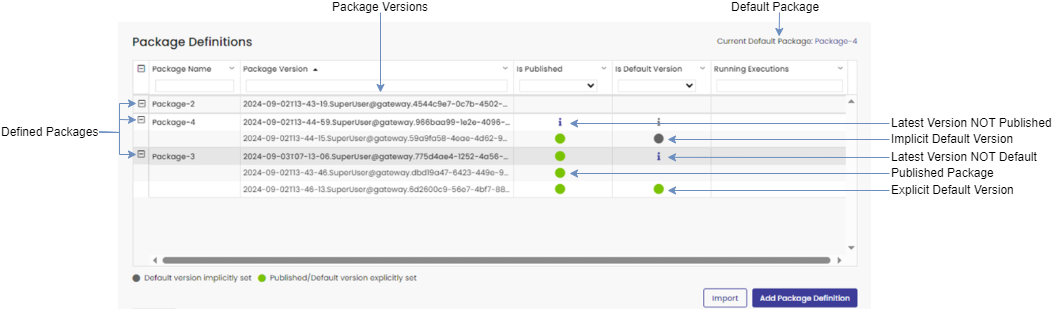
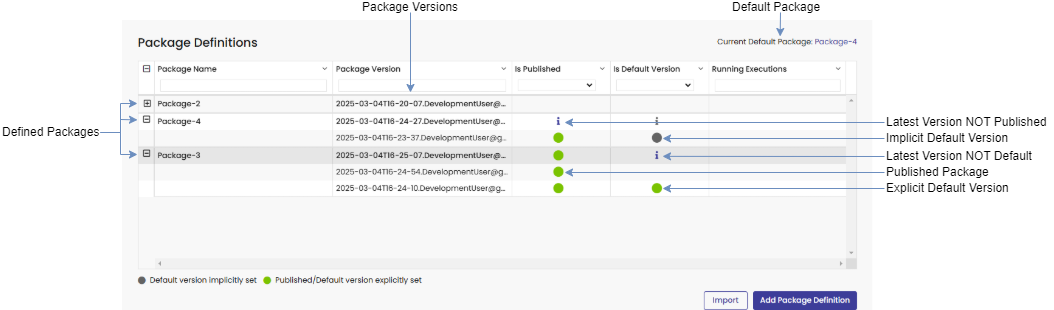
Modified screen shots for consistency

diff --git a/content/en/docs/2025.1/Guides/user-guides/user-interfaces/gateway/Admin/packages/package-version-editor.md b/content/en/docs/2025.1/Guides/user-guides/user-interfaces/gateway/Admin/packages/package-version-editor.md
@@ -17,25 +17,23 @@ The Package Version Editor displays details of the selected package version and 
 
 Selecting a package version in the [Package Definitions Grid][] will display it's details in the Package Version Editor; the [Definition][] tab will be selected, displaying the flows it contains and buttons to:
 
-* [Export][] the selected package version to a {{% ctx %}} Package file.
 * [Create New Version][] of the package based on the selected package version.
 * [Publish][] or [Unpublish][] the package version to the {{% ctx %}} Execution Services.
 * [Set As Default Package][] enabling flows to be executed from all versions of this package without specifying the package name in the execution REST Request.
 * [Set As Default Version][] enabling flows to be executed from the package version without specifying the package version in the execution REST Request.
+* [Export][] the selected package version to a {{% ctx %}} Package file.
 
 {{% alert title="Note" %}}
-Some buttons are not visible until the package has been initially published.
+Some buttons are not visible until the package version has been initially published.
 {{% /alert %}}
 
 The Package Version Editor contains the following tabs:
 
-* [Definition][] - displays the flows contained in this package version.
+* [Definition][] - displays the name, version and flows contained in this package version.
 * [Authorisation][] - allows the selection of LDAP groups authorised to execute flows contained in this package version.
 * [Schedules][] – allows configuration of schedules to automatically execute flows contained in this package version at defined times or intervals.
 * [Triggers][] - allows configuration of SNMP triggers to automatically execute flows contained in this package version on receipt of SNMP traps.
 * [Running Executions][] - displays a list of running executions of flows in this package version and enables the user to abort them.
-
-## Actions
 
 ### Definition
 
@@ -43,17 +41,17 @@ Displays the flows contained in this package version and the actions that can be
 
 #### Create a New Package Version
 
-A new {{% ctx %}} Package Version can be created from any existing {{% ctx %}} Package Version. Creating a new {{% ctx %}} Package Version allows additional flows to be added, and flows inherited from the from the source Package Version excluded from the new version. Existing flows inherited from the source {{% ctx %}} Package Version may be individually updated to their current Master Version contained in the Master Repository or kept at their original version.
+A new package version can be created from any existing package version. Creating a new version allows additional flows to be added and existing flows to be removed; in addition existing flows may be individually updated to their current Master Version contained in the Master Repository or kept at their original version.
 
-The created {{% ctx %}} Package Version may optionally define Schedules to cause flows to be run at specific times, Triggers to cause flows to be run on receipt of specific SNMP Traps, or the Authorisation to authorise Token-based OAuth2 REST Requests for flow execution.
+The created package version may optionally define [schedules][Schedules] to execute flows at specific times, [triggers][Triggers] to execute flows on receipt of SNMP traps, and the selection of LDAP Groups [authorised][Authorisation] to execute flows contained in this package version.
 
-The new {{% ctx %}} Package Version does not retain any of the flow execution authorisation, schedules, nor any triggers set on the source {{% ctx %}} Package Version.
+The new package version does not retain any of the configured schedules or triggers set on the source version. This is a known limitation and should be addressed in a future release.
 
 See the [Create a New Package Version][Create a New Package Version tutorial] tutorial for a step-by-step guide.
 
 #### Publish a Package Version
 
-When a {{% ctx %}} Package Version is published it is distributed to the execution nodes. The first execution of a flow on a node will cause the flow to be compiled, cached and executed on that node.
+When a package version is published it is made available to the {{% ctx %}} Execution Services. The first execution of a flow on a node will cause the flow to be compiled, cached and executed on that node.
 
 Published {{% ctx %}} Package Versions may be explicitly set as the Default Version for that {{% ctx %}} Package, meaning that a REST Request to execute a flow from that published {{% ctx %}} Package Version does not have to specify the Package Version.
 
@@ -61,39 +59,39 @@ See the [Publish a Package Version][Publish a Package Version tutorial] tutorial
 
 #### Set As Default Package
 
-The Default Package specifies which {{% ctx %}} Package will be used to execute flows if the execution REST Request omits the Package Name specifying the {{% ctx %}} Package to use. There is only one Default Package for each {{% ctx %}} system.
+The default package specifies which package will be used to execute flows if the execution REST Request omits the Package Name to specify the package to use. There is only one default package for each {{% ctx %}} platform.
 
-The Default Package can be set on any {{% ctx %}} Package that has a published {{% ctx %}} Package Version. If all the {{% ctx %}} Package Versions associated with the Default Package are unpublished, the Default Package remains unchanged.
+Any package that has a [published][Publish] package version can be set as the default package. If all the package versions associated with the default package are [unpublished][Unpublish], the default package remains unchanged.
 
 See the [Set the Default Package][Set the Default Package tutorial] tutorial for a step-by-step guide.
 
 #### Set As Default Version
 
-The Default Version specifies which {{% ctx %}} Package Version will be used to execute flows if the execution REST Request omits the Package Version specifying the {{% ctx %}} Package Version to use. Every {{% ctx %}} Package will have a Default Version set, either implicitly or explicitly.
+The default version specifies which package version will be used to execute flows if the execution REST Request omits the Package Version to specify the package version to use. Every package will have a default version set, either implicitly or explicitly.
 
-By default, the most recently published {{% ctx %}} Package Version will be implicitly set as the Default Version. If the implicitly set Default Version of a Package is unpublished, the next most recently published version of that Package will be implicitly set as the Default Version.
+By default, the most recently [published][Publish] package version will be implicitly set as the default version. If the implicitly set default version of a package is [unpublished][Unpublish], the next most recently published version of that package will be implicitly set as the default version.
 
-Any published {{% ctx %}} Package Version may be explicitly set as the Default Version. An explicitly set Default Version will remain the Default Version regardless of which other Packages Versions are published or unpublished.
+Any published package version may be explicitly set as the default version. An explicitly set default version will remain the default version regardless of other package versions that are published or unpublished.
 
-If a {{% ctx %}} Package Version that has been set as the Default Version is unpublished, no other published {{% ctx %}} Package Version associated with that {{% ctx %}} Package will be implicitly set as the Default Version. In this instance, there will be no default {{% ctx %}} Package Version available for that {{% ctx %}} Package.
+If a package version that has been set as the default version is unpublished, no other published package version associated with that package will be implicitly set as the default version. In this instance, there will be no default package version available for that package.
 
-If an unpublished {{% ctx %}} Package Version that was previously set as the Default Version is again published, it will automatically become the explicitly set Default Version.
+If an unpublished package version that was previously set as the default version is published again, it will automatically become the explicitly set default version.
 
-If all the {{% ctx %}} Package Versions of a {{% ctx %}} Package are unpublished and then a Package is republished, it will become implicitly set as the Default Version, even if it was explicitly set as the Default Version before unpublishing.
+If all the versions of a package are unpublished and then a package version is republished, it will become implicitly set as the default version, even if it was explicitly set as the default version before unpublishing.
 
 See the [Set the Default Package Version][Set the Default Package Version tutorial] tutorial for a step-by-step guide.
 
 #### Unpublish a Package Version
 
-When a {{% ctx %}} Package Version is unpublished, it is removed from all the execution nodes and flow execution cannot be started for any flows in that package; however, any currently running executions from that Package Version will continue to completion. When all instances of an executing flow in an unpublished package have completed, the cache of the compiled flow discarded.
+When a package version is unpublished, it is removed from the {{% ctx %}} Execution Services and flow executions cannot be started for any flows in that package; however, any currently [running executions][Running Executions] from that package version will continue to completion. When all instances of an executing flow in an unpublished package have completed, the cache of the compiled flow is discarded.
 
 See the [Unpublish a Package Version][Unpublish a Package Version tutorial] tutorial for a step-by-step guide.
 
 #### Export a Package Version
 
-Any {{% ctx %}} Package Version can be exported to a file, which can be used for importing the package to another {{% ctx %}} Gateway or for archiving purposes. The export file is automatically downloaded from the browser and has the file name of `<Package Name>.ctxpkg`.
+Any package version can be exported to a file, which can be used for [importing][Import] the package to another {{% ctx %}} Gateway or for archiving purposes. The export file is automatically downloaded from the browser and has the file name of `<Package Name>.ctxpkg`.
 
-The exported file contains the {{% ctx %}} Package Version definition, and the flow definitions contained in the package. Any authorisation, schedules or triggers set on the {{% ctx %}} Package Version are not included in the exported file.
+The exported file contains the definition of the package version, including the flows contained in the package. Any [schedules][Schedules], [triggers][Triggers] or [authorisation][Authorisation] set on the package version are not included in the exported file. This is a known limitation and should be addressed in a future release.
 
 See the [Export a Package Version][Export a Package Version tutorial] tutorial for a step-by-step guide.
 
@@ -101,57 +99,59 @@ See the [Export a Package Version][Export a Package Version tutorial] tutorial f
 
 The Authorisation tab on a package version defines which LDAP groups can execute flows contained in that package version, using Token-based OAuth2 authorisation.
 
-The list of Active Directory objects displayed to define flow execution authorisation is filtered by the Base DNs configured in LDAP Connection for {{% ctx %}} Gateway.
+The list of Active Directory objects displayed to define flow execution authorisation is retrieved from the Active Directory server configured in LDAP Connection for {{% ctx %}} Gateway and is filtered by the same base DNs. In a future release we may allow for a different LDAP connection to be used to define flow execution authorisation.
 
 See the [Set Authorisation on a Package Version][Set Authorisation on a Package Version tutorial] tutorial for a step-by-step guide.
 
 ### Schedules
 
-A schedule causes a flow execution at a predetermined time, optionally passing values to the flow’s input variables. A single flow may be triggered by several different schedules, and several different schedules may trigger several flows.
+A schedule allows flow executions to occur at defined times, passing values to the flow’s [input variables][Input Variables]. Multiple schedules can be configured; a schedule can execute a single flow and a flow can be executed by mutiple schedules.
 
-Each schedule definition consists of a Name, which is used to easily identify the schedule, and an optional Description to provide additional information. The schedule also specifies the flow to be executed and the time or intervals to initiate the flow execution, expressed in CRON format. The CRON data entered will also be displayed in a human readable format.
+Each schedule definition consists of a `Name`, which is used to easily identify the schedule, and an optional `Description` to provide additional information. The defintion also specifies the `Flow` to be executed, the `Type` of schedule (currently only CRON is available) and the schedule, expressed as a `CRON Expression`, to initiate the flow execution. The CRON expression entered will also be displayed in a human readable format.
 
-Any data to be passed to the flow’s input variables is entered using Expression editors.
+Any data to be passed to the flow’s [input variables][Input Variables] is entered using [expression editors][Expression Editor].
 
-Creating a new package version will not inherit the schedule configuration from the source package version. Similarly, exporting a package version will not include the package’s Schedule in the {{% ctx %}} Package file.
+Creating a [new package version][Create New Version] will not inherit the schedule configuration from the source version. Similarly, exporting a package version will not include the schedule configuration in the {{% ctx %}} Package file. These are known limitations and should be addressed in a future release.
 
 See the [Create a Schedule on a Package Version][Create a Schedule on a Package Version tutorial] tutorial for a step-by-step guide.
 
 ### Triggers
 
-A trigger causes a flow execution on receipt of an SNMP Trap event, optionally passing static values to the flow’s input variables, and if required, the SNMP Trap PDU can be stored in a selected input variable as an object. A single flow may be executed by several different triggers, and several different triggers may initiate the execution of several flows.
+A trigger allows flow executions to occur on receipt of an SNMP Trap event, passing values to the flow’s [input variables][Input Variables], and if required, the SNMP Trap PDU can be stored in a selected input variable as an object. Multiple triggers can be configured; a trigger can execute a single flow, and a flow can be executed by multiple triggers.
 
-Each trigger definition consists of a Name, which is used to easily identify the trigger, and an optional Description to provide additional information. The trigger also specifies a flow plus the set of conditions under which the receipt of an SNMP Trap will trigger the execution of the flow.
+Each trigger definition consists of a `Name`, which is used to easily identify the trigger, and an optional `Description` to provide additional information. The definition also specifies the `Flow` to be executed as well as a set of conditions that receipt of an SNMP Trap will execute the flow.
 
-The trigger conditions that can be set are:
+The conditions that must be set are:
 
-* The `source IPv4 address` of the device sending the SNMP Trap.
+* The `Device Address` of device sending the SNMP Trap.
 
-    This can be a single address, a set of comma-separated addresses, a range of addresses, CIDR subnets, or the * symbol to represent any source address.
-* The `source IPv4 port` of the device sending the SNMP Trap.
+    This can be a single IPv4 address, a list of comma-separated IPv4 addresses, a range of IPv4 addresses, CIDR subnets, or the * symbol to represent any source address.
+* The `Device Port` of the device sending the SNMP Trap.
 
-    This can be a single port, a set of comma-separated ports, a range of ports, or the * symbol to represent any source port.
-* The received `SNMP Trap OID`.
+    This can be a single port, a list of comma-separated ports, a range of ports, or the * symbol to represent any source port.
+* The `Trap OID`.
 
-    This can be a single OID, a set of comma-separated OIDs, a range of OIDs, or the * symbol to represent any OID.
+    This can be a single OID, a list of comma-separated OIDs, a range of OIDs, or the * symbol to represent any OID.
 
-Each Trigger also define the SNMP version; either: `SNMPv1`, `SNMPv2c`, or `SNMPv3`.
+* The `SNMP Version`; either: *SNMPv1*, *SNMPv2c*, or *SNMPv3*.
+  * If *SNMPv1* is selected, a `Community` and `Agent Address` must be configured.
+    * `Community` can be any value, a list of comma-separated values, or the * symbol to represent any community.
+    * `Agent Address` matches with the source address contained in the SNMP PDU, and can be a single IPv4 address, a list of comma-separated IPv4 addresses, a range of IPv4 addresses, CIDR subnets, or the * symbol to represent any source address.
+  * If *SNMPv2c* is selected, a `Community` must be configured.
+    * `Community` can be any value, a list of comma-separated values, or the * symbol to represent any community.
+  * If *SNMPv3* is selected, it is necessary to setup one or more authentication users from the `Configure SNMPv3 Users` hyperlink, above the list of existing SNMP Triggers.
 
-* If `SNMPv1` is selected, a `Community` string and `Agent IPv4 Address` must be configured. The Agent Address matches with the source address contained in the SNMP PDU, and can be a single address, a set of comma-separated addresses, a range of addresses, CIDR subnets, or the * symbol to represent any source address.
-* If `SNMPv2c` is selected, a `Community` string must be configured.
-* If `SNMPv3` is selected, it is necessary to setup one or more authentication users from the `Configure SNMPv3 Users` hyperlink, above the list of existing SNMP Triggers.
+Any data to be passed to the flow’s [input variables][Input Variables] is entered using [expression editors][Expression Editor], except for the SNMP Trap PDU which, if required, is dynamically passed to a selected input variable, overwriting any static or default values configured for that variable.
 
-Any data to be passed to the flow’s input variables is entered using Expression editors, except for the SNMP Trap PDU which, if required, is dynamically passed to a selected input variable, overwriting any static or default values configured for that variable.
-
-Creating a new package version will not inherit the trigger configuration from the source package version. Similarly, exporting a package version will not include the package’s trigger configuration in the {{% ctx %}} Package file.
+Creating a [new package version][Create New Version] will not inherit the trigger configuration from the source version. Similarly, exporting a package version will not include the trigger configuration in the {{% ctx %}} Package file. These are known limitations and should be addressed in a future release.
 
 See the [Create a Trigger on a Package Version][Create a Trigger on a Package Version tutorial] tutorial for a step-by-step guide.
 
 ### Running Executions
 
-The Running Executions tab displays a list of currently running flow executions for the selected package version. Each row in the list is a distinct flow execution, and identifies: the Flow Name, its Execution ID, the time the execution Started At, and the duration of that execution; the duration is updated at 10 second intervals.
+The Running Executions tab displays a list of currently running flow executions for the selected package version. Each row in the list is a distinct flow execution, and identifies the `Flow Name`, its `Execution Id`, the time the execution `Started At`, and the `Duration` of that execution; the `Duration` is updated at 10 second intervals.
 
-Any running flow execution may be aborted by selecting the flow and clicking the `Stop the execution` icon. The flow execution will be immediately stopped.
+Any running flow execution may be aborted by selecting the flow and clicking the `Stop the execution` icon. The flow execution will be stopped immediately.
 
 See the [View and Abort Running Flow Executions][View and Abort Running Flow Executions tutorial] tutorial for a step-by-step guide.
 
@@ -159,9 +159,10 @@ See the [View and Abort Running Flow Executions][View and Abort Running Flow Exe
 
 ### Known Limitations
 
-* Flow versions other than those inherited from the source {{% ctx %}} Package Version, or the Master Versions stored in the Master Repository, cannot be included in a new {{% ctx %}} Package Version.
-* To set the Default Package, it is necessary to select a published {{% ctx %}} Package Version; it is not possible to set the Default Package by selecting a {{% ctx %}} Package Version that is not published even if other {{% ctx %}} Package Versions of the same {{% ctx %}} Package are published.
-* At present, the OAuth2 authorisation for flow execution uses the same Active Directory server used by {{% ctx %}} Gateway. This limitation will be removed in a future release.
+* Flow versions other than those inherited from the source package version, or the Master Versions stored in the Master Repository, cannot be included in a new package version.
+* New package versions do not retain any of the configured schedules or triggers set on the source version.
+* To set the default package, it is necessary to select a published package version; it is not possible to set the default package by selecting a version that is not published even if other versions of the same package are published.
+* Exported package versions do not retain any of the configured schedules, triggers or authorisation set on the package version being exported.
 * Currently, a schedule cannot be edited; new schedules can be created, and existing schedules deleted.
 
 ## See Also
@@ -199,6 +200,9 @@ See the [View and Abort Running Flow Executions][View and Abort Running Flow Exe
 [Create a Schedule on a Package Version tutorial]: {{< url path="Cortex.Tutorials.Administration.PackageManagement.Schedules" >}}
 [Create a Trigger on a Package Version tutorial]: {{< url path="Cortex.Tutorials.Administration.PackageManagement.Triggers" >}}
 [Export a Package Version tutorial]: {{< url path="Cortex.Tutorials.Administration.PackageManagement.ExportPackage" >}}
+[Expression Editor]: {{< url path="Cortex.Reference.Concepts.Fundamentals.Blocks.BlockProperties.PropertyEditors.ExpressionEditor.MainDoc" >}}
+[Import]: {{< url path="Cortex.Guides.UserGuides.UserInterfaces.Gateway.Admin.Packages.PackageDefinitionsGrid.Import" >}}
+[Input Variables]: {{< url path="Cortex.Reference.Concepts.Fundamentals.Variables.WhatIsAVariable.FlowInputVariable" >}}
 [Publish a Package Version tutorial]: {{< url path="Cortex.Tutorials.Administration.PackageManagement.PublishPackage" >}}
 [Set Authorisation on a Package Version tutorial]: {{< url path="Cortex.Tutorials.Administration.PackageManagement.Authorisation" >}}
 [Set the Default Package tutorial]: {{< url path="Cortex.Tutorials.Administration.PackageManagement.SetDefaultPackage" >}}
